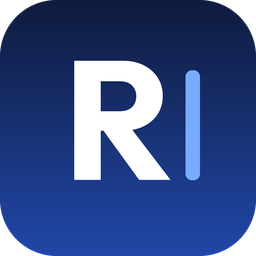
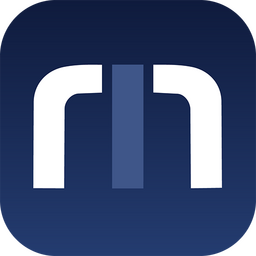
Use the new brand images in both apps and allow republishing a release (#23)
Both apps use the new logo, wordmark and icon from assets/brand. The release workflow can replace an existing release to publish the same version again. Version stays 1.12.4.

diff --git a/docs/ARCHITETTURA.md b/docs/ARCHITETTURA.md
@@ -203,7 +203,7 @@ In alto nella finestra un selettore sceglie tra **Film e serie** (tutto quanto d
 
 ## 14. Logo, icona e layout
 
-- Sorgenti in `assets/brand`: `renamr-logo.svg` (navy, tema chiaro), `renamr-logo-dark.svg` (bianco, tema scuro), `renamr-icon.svg` (simbolo quadrato "R" con cursore) e `renamr.ico` multi-risoluzione; `make_svg.py` e `make_png.py` rigenerano tutto. Colori: navy `#0F1B3D`, blu accento `#2F6BFF` (anche colore d'accento dell'app Linux).
+- Sorgenti in `assets/brand`: `renamr-logo.svg` (navy, tema chiaro), `renamr-logo-dark.svg` (bianco, tema scuro), `renamr-icon.svg` (simbolo quadrato con la "m" stilizzata), i PNG esportati e `renamr.ico` multi-risoluzione, forniti da Daniele. Le immagini delle app (`src/*/Assets`: `logo-*`, `wordmark-*`, `renamr-icon.png`, `renamr.ico`) si ricavano da questi file con ImageMagick (logo alto 144 px, wordmark senza sottotitolo alto 80 px). Colori: navy `#0F1B3D`, blu accento `#2F6BFF` (anche colore d'accento dell'app Linux).
 - Le due app usano PNG ricavati da queste sorgenti (`Assets/`): logo grande nella schermata iniziale, solo scritta nella barra del titolo, scelti per tema (`ThemeDictionaries` in WinUI, `Resources.ThemeDictionaries` in Avalonia). `renamr.ico` è l'icona di Renamr.exe e della finestra Windows; `renamr-icon.png` quella della finestra Linux.
 - Layout: in alto logo e versione, cartella aperta a destra; sotto, le due modalità e l'unico pulsante Impostazioni, sempre visibile; poi il contenuto e la barra azione.
 

diff --git a/README.md b/README.md
@@ -319,6 +319,8 @@ with generated release notes. GitHub adds the source code archives on its own. A
 workflow.
 
 Without pushing a tag yourself: open **Actions → Build and release → Run workflow** on `main` and tick **Publish a release**.
+To publish the same version again with new files, also tick **Replace an existing release**: the old release and its tag
+are removed and recreated from the current `main`.
 The workflow creates the tag `v<Version>` and the release in one go.
 
 ## Project layout
